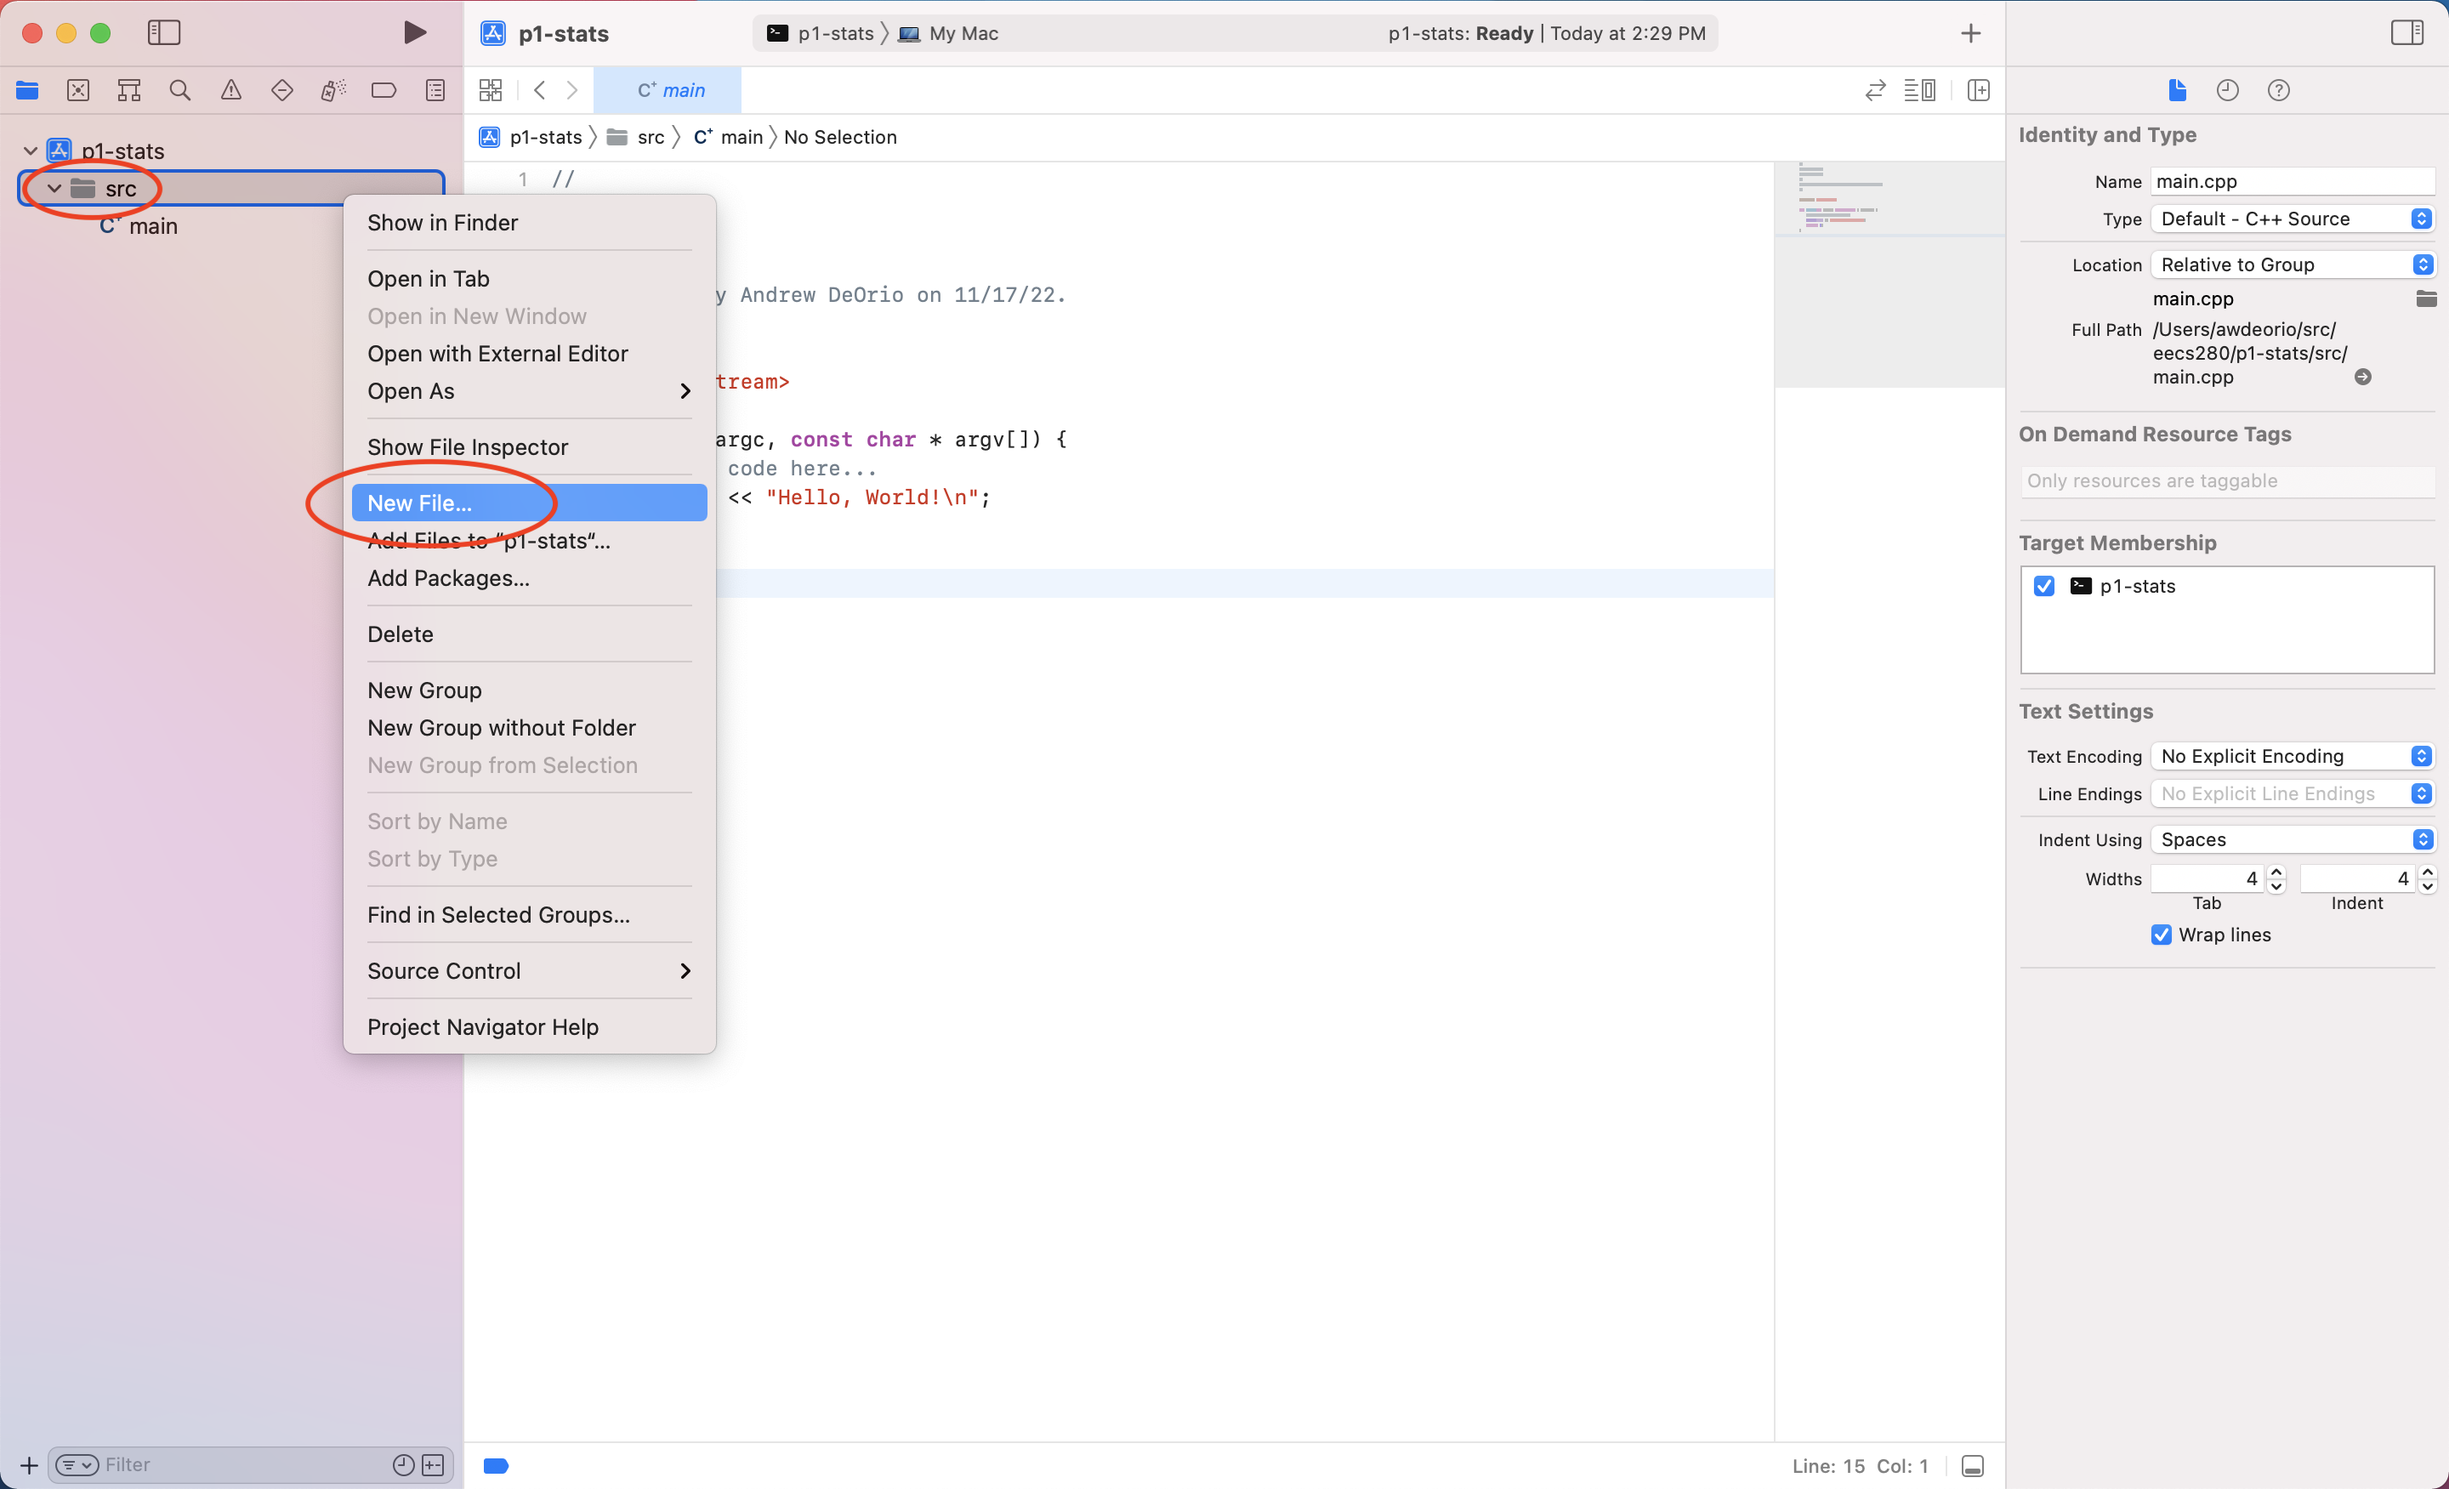
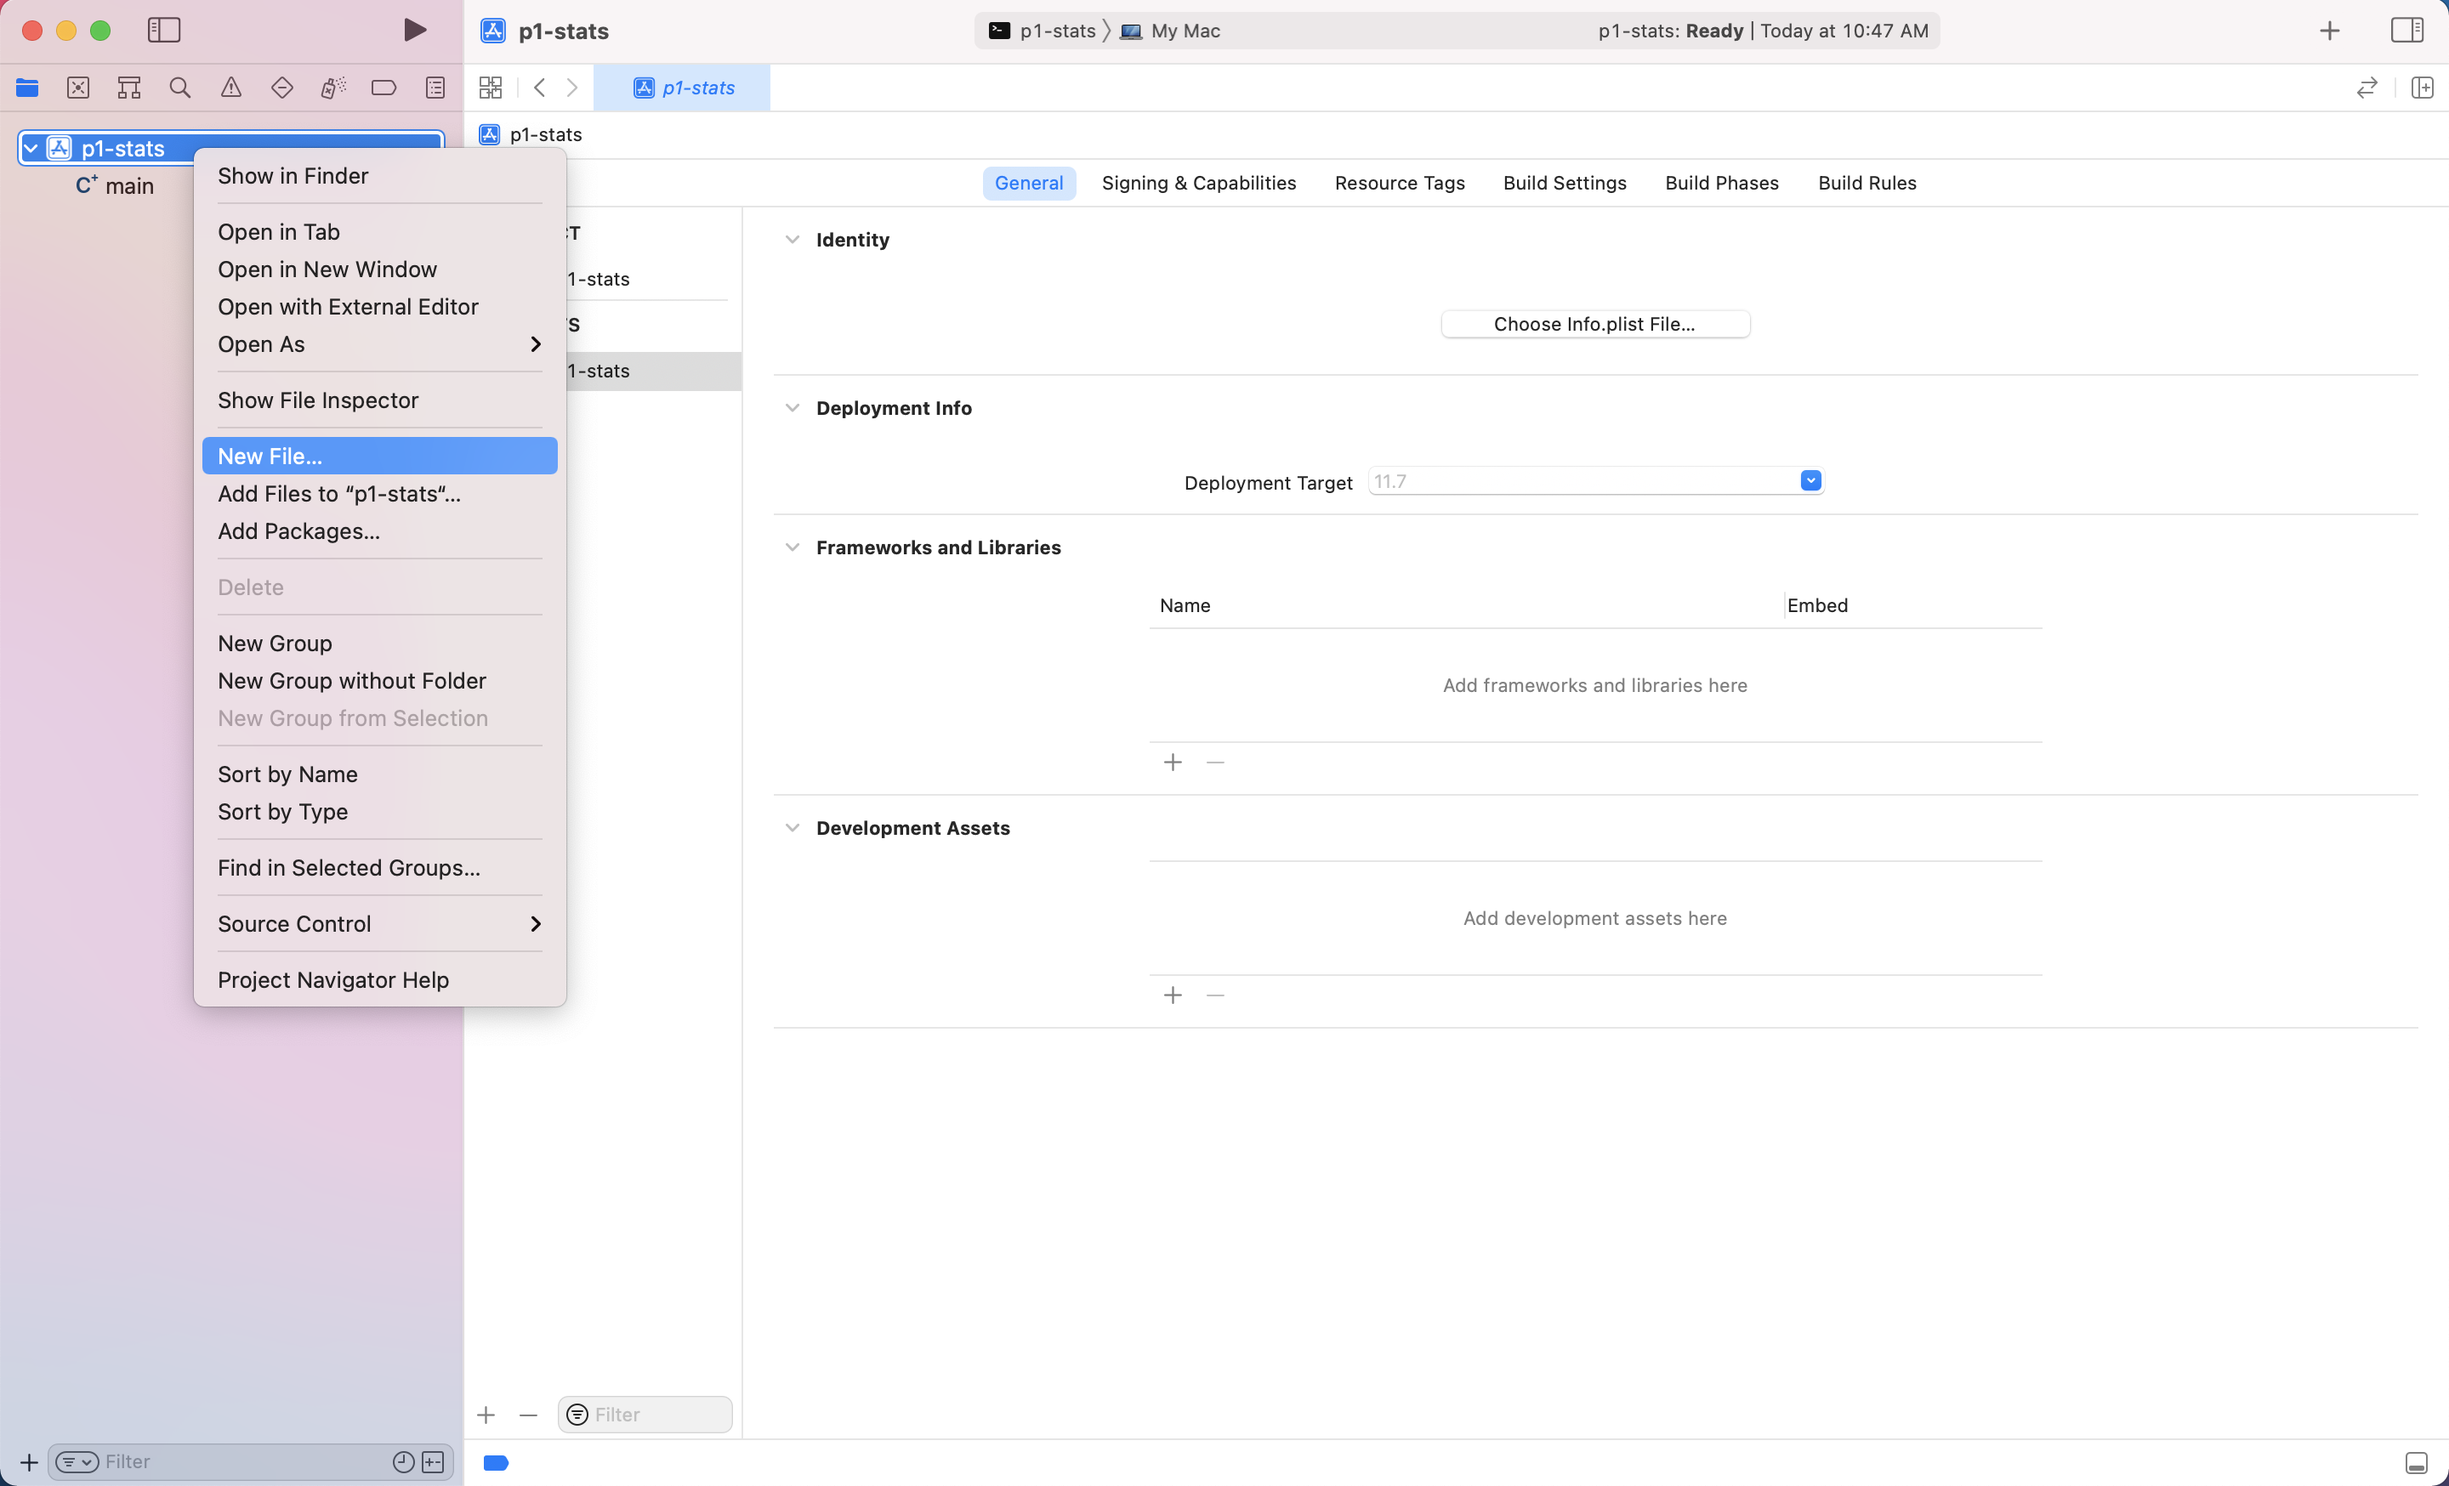
part way through updating Create a project

diff --git a/docs/setup_xcode.md b/docs/setup_xcode.md
@@ -70,21 +70,23 @@ In the File Dialog, navigate to the directory where you store your projects. You
 
 </div>
 
-Click the `p1-stats` folder and rename it to `src`.  We recommend this in EECS 280 to avoid confusing the outer directory (`p1-stats`) with the inner directory (`src`).  This step is optional.
+Drag-and-drop `main.cpp` out of the `p1-stats` folder, then delete the `p1-stats` folder.  We recommend this in EECS 280 so that everyone has a one-level structure (`p1-stats/main.cpp`) instead of a two-level structure (`p1-stats/p1-stats/main.cpp`).  This step is optional.
 
-<img src="images/xcode075.png" width="768px" />
+| <img src="images/xcode075.png" width="192px" /> | <img src="images/xcode076.png" width="192px" /> | <img src="images/xcode077.png" width="192px" /> | <img src="images/xcode078.png" width="192px" /> |
 
-You can see the files created by Xcode from the command line.  Notice that Xcode created a folder project metadata: `p1-stats.xcodeproj`.
+You can see the files created by Xcode in the Finder.  Right-click `main`, a select "Show in Finder".
+
+| <img src="images/xcode079a.png" width="192px" /> | <img src="images/xcode079b.png" width="512px" /> |
+
+You can also see the files created by Xcode from the command line.  Notice that Xcode created a folder with project metadata: `p1-stats.xcodeproj`.
+
 ```console
-$ pwd
-/Users/awdeorio/src/eecs280/p1-stats
 $ tree
 .
-├── p1-stats.xcodeproj
-│   ├── project.pbxproj
-        ...
-└── src
-    └── main.cpp
+├── main.cpp
+└── p1-stats.xcodeproj
+    ├── ...
+
 ```
 
 ### Add new files
@@ -102,7 +104,7 @@ $ open p1-stats.xcodeproj
 {: data-variant="no-line-numbers" }
 </div>
 
-Right-click the `src` folder in the left side bar.  Select "New File".
+Right-click `p1-stats` in the left side bar.  Select "New File".
 
 <img src="images/xcode115.png" width="768px" />
 
@@ -118,22 +120,23 @@ Don't select any targets.  Click "Create".
 
 <img src="images/xcode118.png" width="512px" />
 
-You should see your new file in the `src` directory.
+You should see your new file in the sidebar.
 
 <img src="images/xcode119.png" width="768px" />
 
 ### Add existing files
-If you have starter files, add them to the `src` subdirectory inside your project directory.
+If you have starter files, add them to your project directory.  This example is from EECS 280 Project 1.  Your URL or files might be different.
+
+<div class="primer-spec-callout warning" markdown="1">
+**Pitfall:** Make sure you're in the directory containing your source code.
+```console
+$ ls
+main.cpp  p1-stats.xcodeproj
+```
+</div>
 
 We'll use the terminal to download, unpack, and move starter files into the `src` subdirectory.  Your URL or folder might be different.  **Pro-tip:** [copy/paste instructions for WSL](setup_wsl.html#how-do-i-copy-and-paste).
 
-<div class="primer-spec-callout warning" markdown="1">
-**Pitfall:** Make sure you're in the subdirectory containing your source code.
-```console
-$ ls
-main.cpp ...
-```
-</div>
 
 ```console
 $ wget https://eecs280staff.github.io/p1-stats/starter-files.tar.gz
@@ -368,7 +371,7 @@ Click "Step Into".  The cursor enters the `sum()` function.
 
 <img src="images/xcode295.png" width="768px" />
 
-<img src="images/xcode300.png" width="768px" />
+<img src="images/xcode300png" width="768px" />
 
 ### Step out
 Click "Step Out".  The `sum()` function completes, and the program pauses again.
